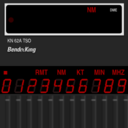
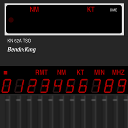
Heading bug. DME shows distance. Better graphics for flaps and trim.

diff --git a/FlightGearMap/src/com/juanvvc/flightgear/panels/Cessna172.java b/FlightGearMap/src/com/juanvvc/flightgear/panels/Cessna172.java
@@ -1,5 +1,6 @@
 package com.juanvvc.flightgear.panels;
 
+import java.io.IOException;
 import java.util.ArrayList;
 
 import android.content.Context;
@@ -11,6 +12,7 @@ import android.graphics.Paint;
 import android.graphics.Rect;
 import android.graphics.Typeface;
 
+import com.juanvvc.flightgear.FGFSConnection;
 import com.juanvvc.flightgear.MyBitmap;
 import com.juanvvc.flightgear.MyLog;
 import com.juanvvc.flightgear.PlaneData;
@@ -83,7 +85,8 @@ public class Cessna172 {
 				});
 		case HEADING:
 			return new Instrument(col, row, context, new Surface[] {
-					new CalibratableRotateSurface(new MyBitmap("hdg1.png", -1, -1, -1, -1), 0, 0, "/instrumentation/heading-indicator/indicated-heading-deg", true, PlaneData.HEADING, 256, 256, 0, 0, 360, -360),
+					new RotateSurface(new MyBitmap("hdg1.png", -1, -1, -1, -1), 0, 0, PlaneData.HEADING, 1, 256, 256, 0, 0, 360, -360),
+					new C172HIBug(new MyBitmap("misc2.png", 242, 290, 44, 44), 256-22, 36, "/autopilot/settings/heading-bug-deg", true, -1, 256, 256, -180, -180, 180, 180),
 					new StaticSurface(new MyBitmap("hdg2.png", -1, -1, -1, -1), 0, 0)
 				});
 		case TURN_RATE:
@@ -123,9 +126,9 @@ public class Cessna172 {
 				});
 		case TRIMFLAPS:
 			return new Instrument(col, row, context, new Surface[] {
-					new StaticSurface(new MyBitmap("trimflaps.png", -1, -1, -1, -1), 65, 10),
-					new SlippingSurface(hand3, 180, PlaneData.ELEV_TRIM, -1, 220, 215, 1, 220, 33),
-					new SlippingSurface(hand3, 0, PlaneData.FLAPS, 0, 230, 15, 1, 230, 200)
+					new SlippingSurface(hand3, 180, PlaneData.ELEV_TRIM, -1, 248, 218, 1, 248, 42),
+					new SlippingSurface(hand3, 0, PlaneData.FLAPS, 0, 258, 18, 1, 258, 203),
+					new StaticSurface(new MyBitmap("trimflaps.png", -1, -1, -1, -1), 93, 13),
 				});
 		case SWITCHES:
 			return new Instrument(col, row, context, new Surface[] {
@@ -142,7 +145,8 @@ public class Cessna172 {
 			Typeface face = Typeface.createFromAsset(context.getAssets(), "14_LED1.ttf");
 			return new Instrument(col, row, context, new Surface[] {
 					new StaticSurface(new MyBitmap("dme.png", 0, 0, 512, 216), 0, 0),
-					new DMENumber(new MyBitmap("dme.png", 0, 312, 512, 64), 208, 120, PlaneData.DME, face)
+					new DMENumber(null, 58, 120, PlaneData.DME, face),
+					new DMENumber(null, 258, 120, PlaneData.DME_SPEED, face)
 			});
 		default:
 			MyLog.w(Cessna172.class.getSimpleName(), "Instrument not available: " + type);
@@ -206,6 +210,25 @@ class C172AirSpeedSurface extends RotateSurface {
 			return -0.0061147f * v * v + 3.3f * v - 104.5f;
 		}
 	}
+}
+
+class C172HIBug extends CalibratableRotateSurface {
+
+	public C172HIBug(MyBitmap bitmap, float x, float y, String prop,
+			boolean wrap, int propIdx, int rcx, int rcy, float min, float amin,
+			float max, float amax) {
+		super(bitmap, x, y, prop, wrap, propIdx, rcx, rcy, min, amin, max, amax);
+	}
+
+	/**
+	 * @param v value angle
+	 * @return The angle to rotate the drawable to match that value
+	 */
+	protected float getRotationAngle(float v) {
+		float vparent = super.getRotationAngle(v);
+		return vparent - planeData.getFloat(PlaneData.HEADING);
+	}
+
 }
 
 /** The long hand of the altimeter shows the modulus of the altitude.
@@ -330,6 +353,7 @@ class DMENumber extends StaticSurface {
 	private Typeface face;
 	private Paint font;
 	
+	// Bitmap is not currently used
 	public DMENumber(MyBitmap bitmap, float x, float y, int idxDME, Typeface face) {
 		super(bitmap, x, y);
 		this.idxDME = idxDME;
@@ -362,11 +386,11 @@ class DMENumber extends StaticSurface {
 		font = new Paint();
 		font.setColor(Color.RED);
 		font.setTypeface(this.face);
-		font.setTextSize(bitmap.getScaledBitmap().getHeight());
+		font.setTextSize((parent.getScale() * parent.getGridSize()) / 8); //bitmap.getScaledBitmap().getHeight());
 	}
 	
 	public void onDraw(Canvas c) {
-		if (planeData == null || bitmap == null || bitmap.getScaledBitmap() == null) {
+		if (planeData == null) { // || bitmap == null || bitmap.getScaledBitmap() == null) {
 			return;
 		}
 		

diff --git a/FlightGearMap/src/com/juanvvc/flightgear/instruments/CalibratableRotateSurface.java b/FlightGearMap/src/com/juanvvc/flightgear/instruments/CalibratableRotateSurface.java
@@ -17,7 +17,7 @@ public class CalibratableRotateSurface extends Surface {
 	/** If true, the value is wrapped (after max, it is min again) */
 	private boolean wrapped = false;
 	/** The property to read from PlaneData, if positive. */
-	private int propIdx;
+	protected int propIdx;
 	/** ration center */
 	private float rcx;
 	private float rcy;
@@ -47,6 +47,8 @@ public class CalibratableRotateSurface extends Surface {
 	 * @param x Horizontal position of the surface inside the instrument
 	 * @param y Horizontal position of the surface inside the instrument
 	 * @param prop The path to the property to read from the remote FGFSConnetion
+	 * @param wrap Wrap the value at the end of the range, or keep it inside limits
+	 * @param propIdx A property index to follow (if any. If not, set to -1)
 	 * @param rscale Scale of the data (usually 1: do not modify the data)
 	 * @param rcx Rotation center (inside the instrument)
 	 * @param rcy Rotation center (inside the instrument)
@@ -109,7 +111,6 @@ public class CalibratableRotateSurface extends Surface {
 		}
 		
 		m.reset();
-		m.reset();
 		m.setTranslate(finalx, finaly);
 		m.postRotate(getRotationAngle(value), finalrx, finalry);
 		c.drawBitmap(bitmap.getScaledBitmap(), m, null);
@@ -151,17 +152,6 @@ public class CalibratableRotateSurface extends Surface {
 			if (end) {
 				moving = false;
 			}
-			
-//			// set rotationAngle in (0, 360)
-//			while (rotateAngle < 0) {
-//				rotateAngle += 360;
-//			}
-//			while (rotateAngle > 360) {
-//				rotateAngle -= 360;
-//			}
-//			
-//			value = rotateAngle; //(rotateAngle - amin) * (max - min) / (amax - amin) + min;
-//			myLog.i(this, "Setting " + rotateAngle + ": " + value);
 			
 			value += rotateAngle * ROTATION_SCALE * (this.max - this.min) / 360;
 			

diff --git a/FlightGearMap/src/com/juanvvc/flightgear/panels/Cessna337.java b/FlightGearMap/src/com/juanvvc/flightgear/panels/Cessna337.java
@@ -35,7 +35,8 @@ public class Cessna337 {
 		case SPEED:
 			return new Instrument(col, row, context, new Surface[] {
 					new StaticSurface(new MyBitmap("speed2.png", -1, -1, -1, -1), 0, 0),
-					new RotateSurface(hand1, 236, 56, PlaneData.SPEED, 1, 256, 256, 0, 0, 200, 350)
+					new RotateSurface(hand1, 236, 56, PlaneData.SPEED, 1, 256, 256, 0, 0, 200, 350),
+					new CalibratableRotateSurface(new MyBitmap("speed4.png", -1, -1, -1, -1), 256-228, 256-228, null, true, -1, 256, 256, 0, 0, 360, -360),
 				});
 		case RPM:
 			return new Instrument(col, row, context, new Surface[] {
@@ -55,7 +56,9 @@ public class Cessna337 {
 			return new Instrument(col, row, context, new Surface[] {
 					new StaticSurface(new MyBitmap("nav3.png", 0, 190, 320, 320), 256-160, 256-160),
 					new RotateSurface(new MyBitmap("nav4.png", 248, 200, 32, 300), 236, 100, PlaneData.ADF_DEFLECTION, 1, 256, 256, 0, 0, 360, 360),
-					new CalibratableRotateSurface(headings, 0, 0, "/instrumentation/heading-indicator/indicated-heading-deg", true, PlaneData.HEADING, 256, 256, 0, 0, 360, -360),
+					new RotateSurface(headings, 0, 0, PlaneData.HEADING, 1, 256, 256, 0, 0, 360, -360),
+					new CalibratableRotateSurface(new MyBitmap("misc2.png", 242, 290, 44, 44), 256-22, 36, null, true, -1, 256, 256, 0, 0, 360, -360),
+
 					new StaticSurface(new MyBitmap("nav5.png", -1, -1, -1, -1), 0, 0),
 					new StaticSurface(new MyBitmap("nav1.png", -1, -1, -1, -1), 0, 0)
 				});

diff --git a/FlightGearMap/src/com/juanvvc/flightgear/PlaneData.java b/FlightGearMap/src/com/juanvvc/flightgear/PlaneData.java
@@ -66,14 +66,16 @@ public class PlaneData {
 	public static final int GS1_DEFLECTION = 30; // normalized needle deflection (only NAV1)
 	public static final int GS1_INRANGE = 31; // true if GS in range (only NAV1)
 	public static final int DME = 32;
-	public static final int RPM2 = 33;
-	public static final int MANIFOLD = 34;
-	public static final int MANIFOLD2 = 35;
-	public static final int CHT1_TEMP = 36;
-	public static final int CHT2_TEMP = 37;
-	public static final int OIL2_PRESS = 38;
-	public static final int OIL2_TEMP = 39;
-	public static final int ALTITUDE_AGL = 40;
+	public static final int DME_SPEED = 33;
+	public static final int RPM2 = 34;
+	public static final int MANIFOLD = 35;
+	public static final int MANIFOLD2 = 36;
+	public static final int CHT1_TEMP = 37;
+	public static final int CHT2_TEMP = 38;
+	public static final int OIL2_PRESS = 39;
+	public static final int OIL2_TEMP = 40;
+	public static final int HEADING_BUG = 41;
+	public static final int ALTITUDE_AGL = 42;
 	
 
 	
